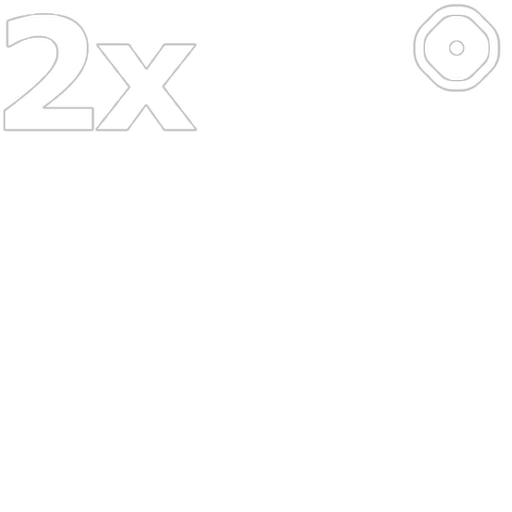
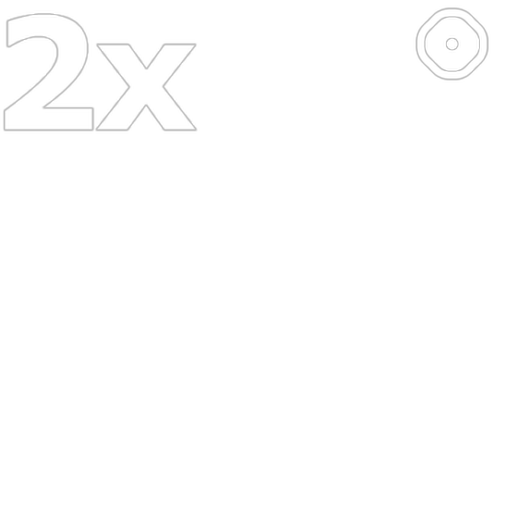
Match high-res sniper reticle size to the stock artwork
Pack the supplied sniper picture into the measured visible footprint instead
of filling the padded sprite cell. Retain its original pixels/crop, centre,
zoom labels and separate Xbox, CE and MCC atlas paths. No runtime code or
map-family boundaries change; no simulation/protocol change or version bump.

Review: only reticle placement, three generated atlases, sizing coverage and
the reader guide changed. Pixels outside each reticle sprite match the parent
commit exactly; rocket/button art and CE 8x are untouched.

Validation: 577 relevant tests passed, 4 unavailable checks skipped; Windows
release build passed. Xbox/CE scope captures match stock size. MCC corrected
reticle observed in tinyhalo; its off run picked another weapon, so MCC size
comparison uses measured stock atlas bounds, not paired scoped screenshots.
Android/Web attempts remain blocked by local Windows NDK/SDL shell setup.

Player-Note: High-res sniper reticles now match the stock size on Xbox, CE and MCC maps.

Changed region(s): [[0.7812, 0.0, 1.0, 0.1875]]

diff --git a/tools/test_hud_corrections.py b/tools/test_hud_corrections.py
@@ -36,13 +36,31 @@ def test_packed_corrections_use_supplied_pixels():
             for cell in entry['cells']:
                 with Image.open(ASSETS / cell['source_png']) as supplied:
                     source = supplied.convert('L').crop(cell['crop'])
-                x0,y0,x1,y1 = [v*entry['scale'] for v in cell['xbox']]
+                x0,y0,x1,y1 = [round(v*entry['scale']) for v in cell['xbox']]
                 ratio = min((x1-x0)/source.width, (y1-y0)/source.height)
                 size = tuple(round(n*ratio) for n in source.size)
                 x0 += (x1-x0-size[0])//2
                 y0 += (y1-y0-size[1])//2
                 expected = np.asarray(source.resize(size, Image.Resampling.LANCZOS))
                 assert np.array_equal(actual[y0:y0+size[1], x0:x0+size[0], 3], expected)
+
+
+def test_sniper_reticle_keeps_stock_visible_size_and_position():
+    # Measured stock alpha bounds (>=128), not the padded sprite rectangles.
+    # MCC's original sheet has four times Xbox/CE's texture resolution.
+    for name, scale, sprite, bounds in [
+        ('sniper__hud_reticles_scope__0', 8, [32, 0, 50, 18], [36, 4, 45, 13]),
+        ('ce_sniper_scope', 8, [51, 0, 63, 12], [52, 1, 61, 10]),
+        ('mcc_sniper_scope', 2, [108, 0, 152, 44], [112, 4, 148, 40]),
+    ]:
+        alpha = Image.open(ASSETS / (name+'.png')).getchannel('A')
+        x0,y0,x1,y1 = [n*scale for n in sprite]
+        visible = np.asarray(alpha.crop((x0,y0,x1,y1))) >= 128
+        ys,xs = np.where(visible)
+        actual = np.array([x0+xs.min(), y0+ys.min(), x0+xs.max()+1, y0+ys.max()+1])
+        # Proportional resampling of the supplied image can round one edge
+        # by one high-res pixel (1/8 Xbox/CE texel), not one stock texel.
+        assert np.all(np.abs(actual - np.array(bounds)*scale) <= 1), name
 
 
 def test_classic_letters_are_transparent_cutouts():

diff --git a/tools/hud_corrections.py b/tools/hud_corrections.py
@@ -16,11 +16,16 @@ def cell(rect, name, crop):
 
 
 def scope_cells(kind):
+    # Stock visible coverage is 9x9 texels: Xbox [36,4,45,13],
+    # CE [52,1,61,10], and MCC [112,4,148,40] at four times the scale.
+    # This supplied crop includes black padding, so a 10x10 placement
+    # reproduces that footprint within one output pixel. Keep the crop,
+    # its antialiasing and the stock centre; do not fill the sprite cell.
     if kind == 'ce':
         return [cell([0, 0, 25, 18], 'scope', [50, 26, 188, 112]),
-                cell([51, 0, 63, 12], 'scope', [241, 12, 301, 73])]
-    rectangles = ([[4, 4, 100, 64], [4, 76, 148, 140], [108, 0, 152, 44]] if kind == 'mcc' else
-                  [[0, 0, 31, 24], [0, 24, 43, 48], [32, 0, 50, 18]])
+                cell([51.5, 0.5, 61.5, 10.5], 'scope', [241, 12, 301, 73])]
+    rectangles = ([[4, 4, 100, 64], [4, 76, 148, 140], [110, 2, 150, 42]] if kind == 'mcc' else
+                  [[0, 0, 31, 24], [0, 24, 43, 48], [35.5, 3.5, 45.5, 13.5]])
     return [cell(rect, 'scope', crop) for rect, crop in zip(rectangles,
         [[50, 26, 188, 112], [50, 168, 247, 253], [241, 12, 301, 73]])]
 

diff --git a/docs/reading/hud_corrections.md b/docs/reading/hud_corrections.md
@@ -12,6 +12,11 @@ These are display changes; input bindings, simulation and networking are unchang
    rectangles. [hud_assets.py](../../tools/hud_assets.py), `build_asset`, converts
    black-background luminance to premultiplied white coverage and proportionally
    resizes the supplied pixels. It does not reconstruct their shapes or font.
+   The sniper reticle fits the stock visible footprint, not the larger padded
+   sprite cell: 9x9 texels on Xbox/CE and 36x36 on MCC's four-times-resolution
+   sheet. These bounds were measured from stock alpha coverage; the supplied
+   image matches their size and centre within one generated high-resolution
+   pixel. Sprite geometry and zoom-label placement remain unchanged.
 2. Xbox retains its existing texture replacement path and atlas layout.
    [hud_hires.c](../../port/linux/src/hud_hires.c), `hud_hires_override_find`, checks
    the setting and original pixel signature. CE's rocket uses its existing
